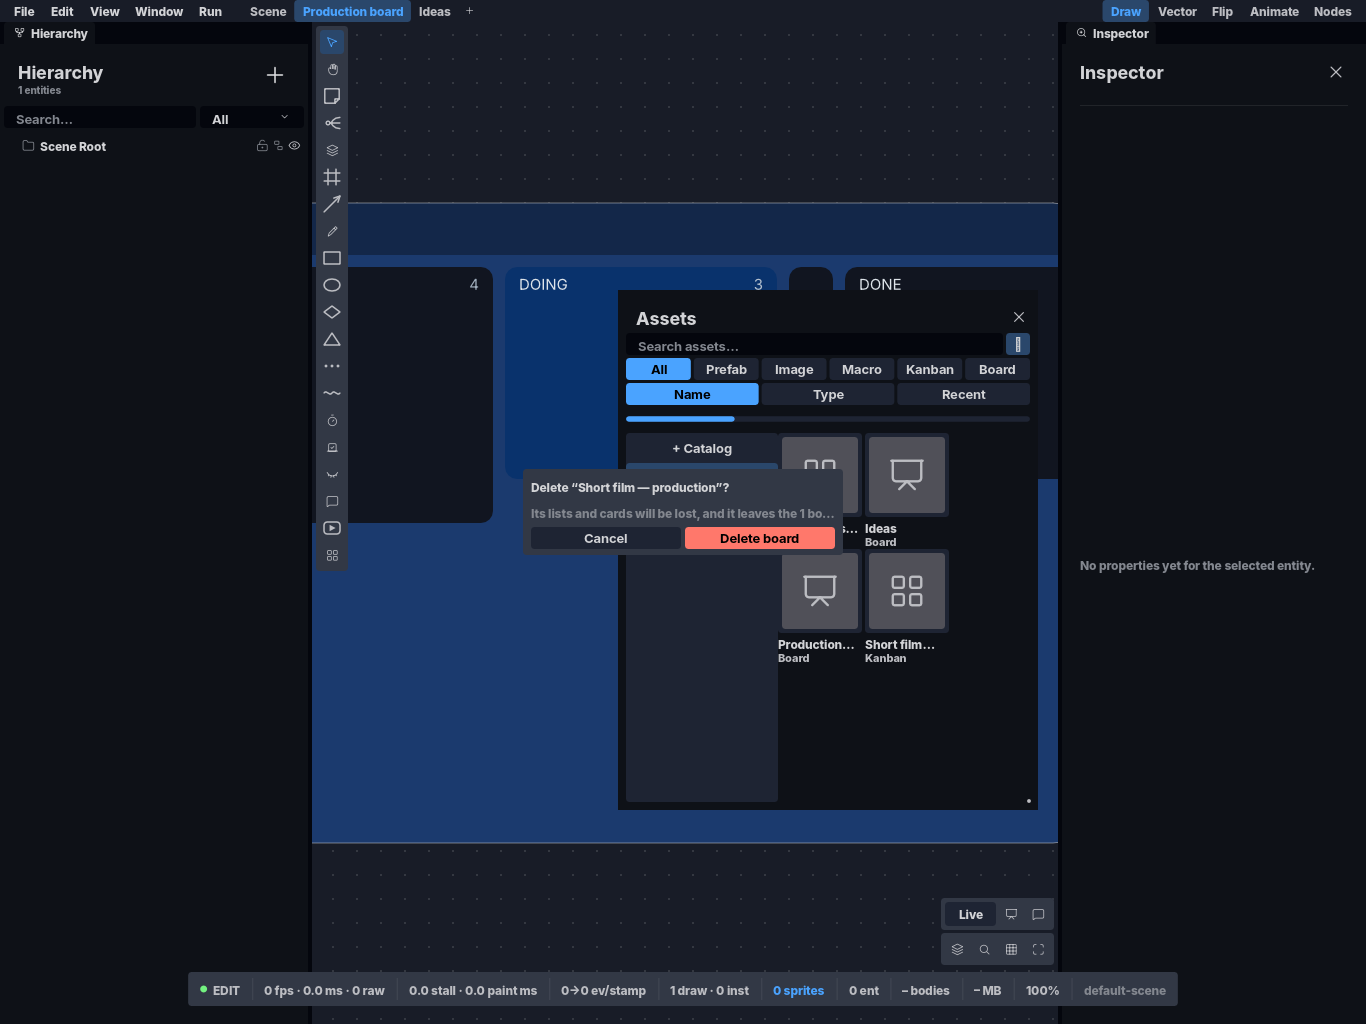
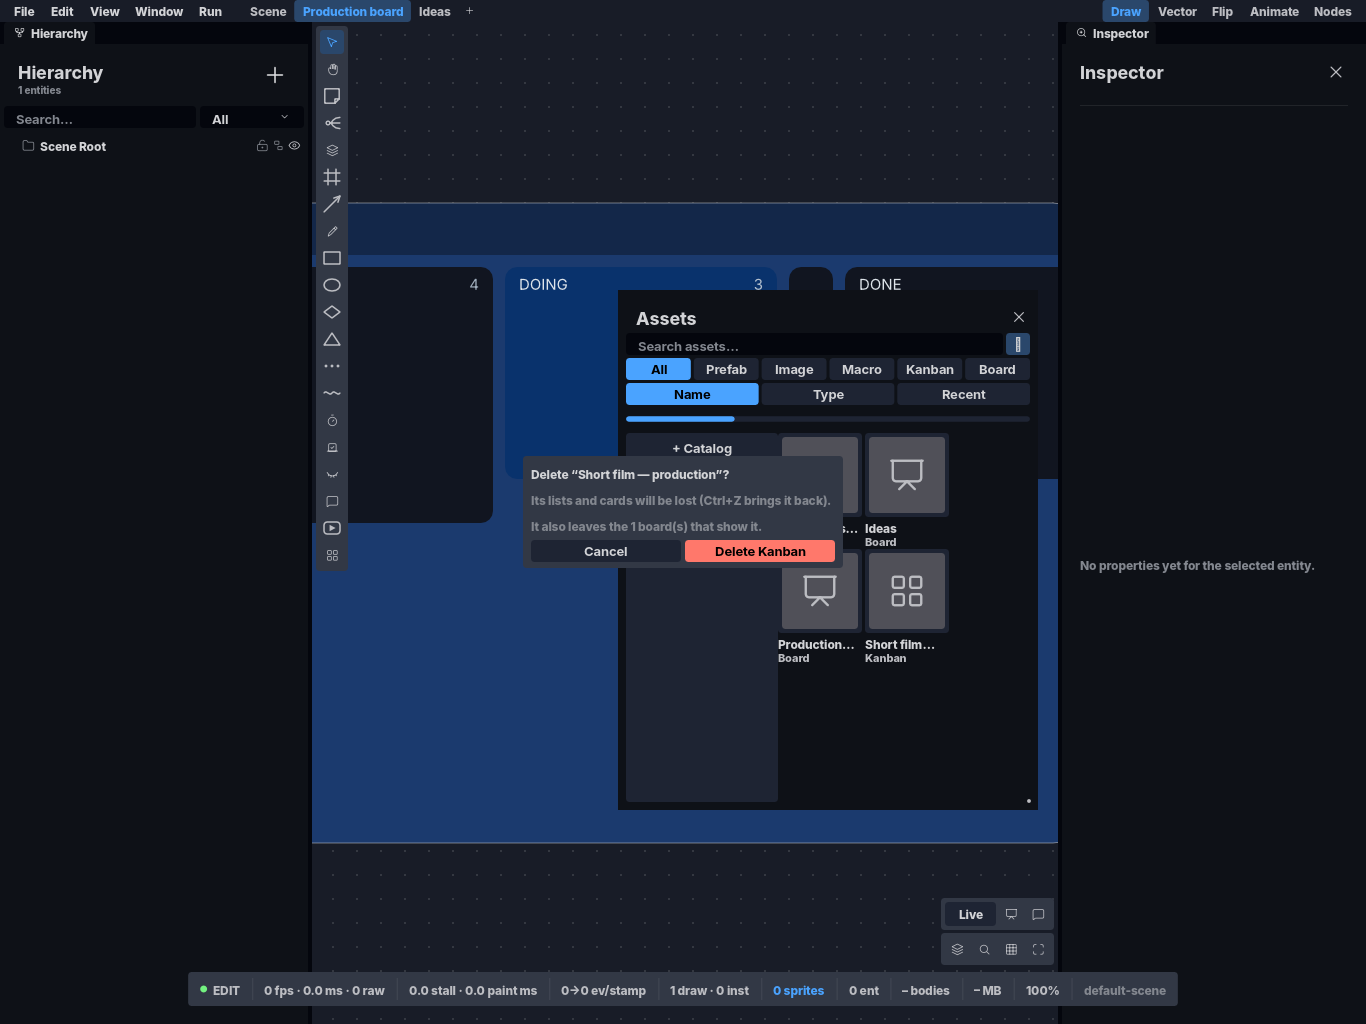
fix(TrelloClone D17): a pergunta de apagar um Kanban diz «Delete Kanban» e o aviso não se corta
A foto apanhou-os: o botão era o «Delete board» partilhado e o aviso com a contagem
de quadros, pintado numa linha só, cortava-se («…leaves the 1 bo…»). O aviso é agora
uma linha por \n e a caixa cresce com elas; board.dialog.delete_kanban. Fotos D17
refeitas. Mais o fmt de 4 ficheiros da onda (verificador).

Changed region(s): [[0.369, 0.4375, 0.6149, 0.5625]]

diff --git a/crates/ph2d-editor-core/src/screens/hero/document_tabs_menu.rs b/crates/ph2d-editor-core/src/screens/hero/document_tabs_menu.rs
@@ -373,9 +373,19 @@ pub fn paint_confirm_delete(
     let Some((title, hint)) = confirm_text(docs, store.context_menu().map(|r| r.kind)) else {
         return;
     };
+    let kanban = matches!(
+        store.context_menu().map(|r| r.kind),
+        Some(ContextMenuKind::ConfirmDeleteKanban { .. })
+    );
+    // O aviso é uma linha por `\n` (o do Kanban com quadros tem duas): uma linha só cortava-se.
+    let lines: Vec<(&str, ColorToken)> = std::iter::once((title.as_str(), ColorToken::Text1))
+        .chain(hint.lines().map(|l| (l, ColorToken::Text3)))
+        .collect();
     let gap = Spacing::Xs.px();
     let w = super::context_menu_dialogs::DIALOG_W;
-    let h = pad_y() * 2.0 + ROW_H * 3.0 + gap * 2.0; // LITERAL-PX-OK: 3 linhas (título · aviso · botões), 2 vãos
+    #[allow(clippy::cast_precision_loss)]
+    let rows = (lines.len() + 1) as f32;
+    let h = pad_y() * 2.0 + ROW_H * rows + gap * (rows - 1.0);
     let rect = Rect::new(
         (viewport.x + (viewport.w - w) * 0.5).max(viewport.x),
         (viewport.y + (viewport.h - h) * 0.5).max(viewport.y),
@@ -397,10 +407,7 @@ pub fn paint_confirm_delete(
     let inner_w = rect.w - Spacing::Md.px() * 2.0;
     let font = TypeToken::Sm.px();
     let mut y = rect.y + pad_y();
-    for (text, token) in [
-        (title.as_str(), ColorToken::Text1),
-        (hint.as_str(), ColorToken::Text3),
-    ] {
+    for (text, token) in lines {
         let ty = y + (ROW_H - font) * 0.5;
         paint_text(
             text_system,
@@ -427,7 +434,11 @@ pub fn paint_confirm_delete(
         (
             ids::CTX_MENU_BOARD_DELETE_CONFIRM,
             delete,
-            tr("board.dialog.delete"),
+            tr(if kanban {
+                "board.dialog.delete_kanban"
+            } else {
+                "board.dialog.delete"
+            }),
             true,
         ),
     ];

diff --git a/crates/ph2d-i18n/src/board.rs b/crates/ph2d-i18n/src/board.rs
@@ -19,9 +19,10 @@ pub(crate) fn tr(key: &str) -> Option<&'static str> {
             "Its lists and cards will be lost (Ctrl+Z brings it back)."
         }
         "board.dialog.delete_kanban_hint_boards" => {
-            "Its lists and cards will be lost, and it leaves the {n} board(s) that show it (Ctrl+Z brings it back)."
+            "Its lists and cards will be lost (Ctrl+Z brings it back).\nIt also leaves the {n} board(s) that show it."
         }
         "board.dialog.delete" => "Delete board",
+        "board.dialog.delete_kanban" => "Delete Kanban",
         "board.dialog.cancel" => "Cancel",
         "board.tool.select" => "Select (V)",
         "board.tool.hand" => "Hand — drag the view (H, or hold Space)",

diff --git a/crates/ph2d-app-board/src/smoke.rs b/crates/ph2d-app-board/src/smoke.rs
@@ -39,6 +39,9 @@ mod organize;
 #[path = "smoke_guides.rs"]
 mod guides;
 
+/// A cena 31 (TrelloClone D17: Quadros e Kanbans nos Assets), num ficheiro filho.
+#[path = "smoke_d17_assets.rs"]
+mod d17_assets;
 /// A cena 8 (W6), num ficheiro filho.
 #[path = "smoke_mind.rs"]
 mod mind;
@@ -61,9 +64,6 @@ mod w24_bars;
 /// A cena 30 (TrelloClone W4), num ficheiro filho.
 #[path = "smoke_w4_kanban.rs"]
 mod w4_kanban;
-/// A cena 31 (TrelloClone D17: Quadros e Kanbans nos Assets), num ficheiro filho.
-#[path = "smoke_d17_assets.rs"]
-mod d17_assets;
 
 /// A cena 9 (W7), num ficheiro filho.
 #[path = "smoke_facilitate.rs"]

diff --git a/crates/ph2d-app-kanban/src/front.rs b/crates/ph2d-app-kanban/src/front.rs
@@ -194,7 +194,9 @@ pub(crate) fn due_badge(
     now: i64,
     zone: &Zone,
 ) -> Option<DueBadge> {
-    let day = |ms: i64| ph2d_kanban_views::datepick::due_text(date_label(day_of(ms, zone), day_of(now, zone)));
+    let day = |ms: i64| {
+        ph2d_kanban_views::datepick::due_text(date_label(day_of(ms, zone), day_of(now, zone)))
+    };
     let (text, tone) = match (start, due) {
         (None, None) => return None,
         (Some(s), None) => {

diff --git a/crates/ph2d-app-kanban/src/front/tests.rs b/crates/ph2d-app-kanban/src/front/tests.rs
@@ -49,7 +49,10 @@ fn start_and_due_read_as_a_range_and_start_alone_says_starts() {
         ("Starts: Oct 30", DueTone::Neutral)
     );
     let today = due_badge(None, Some((now + 2 * HOUR, false)), now, &z).expect("hoje");
-    assert_eq!(today.text, "Today 2:00 PM", "a frente diz o prazo como o verso");
+    assert_eq!(
+        today.text, "Today 2:00 PM",
+        "a frente diz o prazo como o verso"
+    );
 }
 
 #[test]

diff --git a/crates/ph2d-kanban-views/src/datepick.rs b/crates/ph2d-kanban-views/src/datepick.rs
@@ -86,7 +86,11 @@ pub fn due_text(l: DueLabel) -> String {
         ),
         DueLabel::DateWithYear { year, month, day } => tr_with(
             "kanban.back.day_year",
-            &[("mon", &month_name(month, false)), ("d", &day), ("y", &year)],
+            &[
+                ("mon", &month_name(month, false)),
+                ("d", &day),
+                ("y", &year),
+            ],
         ),
     }
 }
